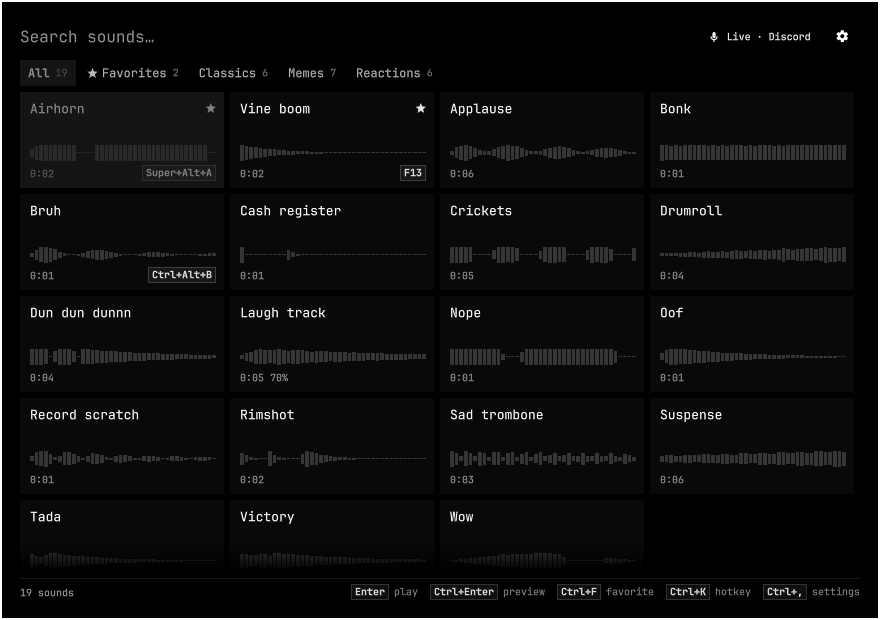
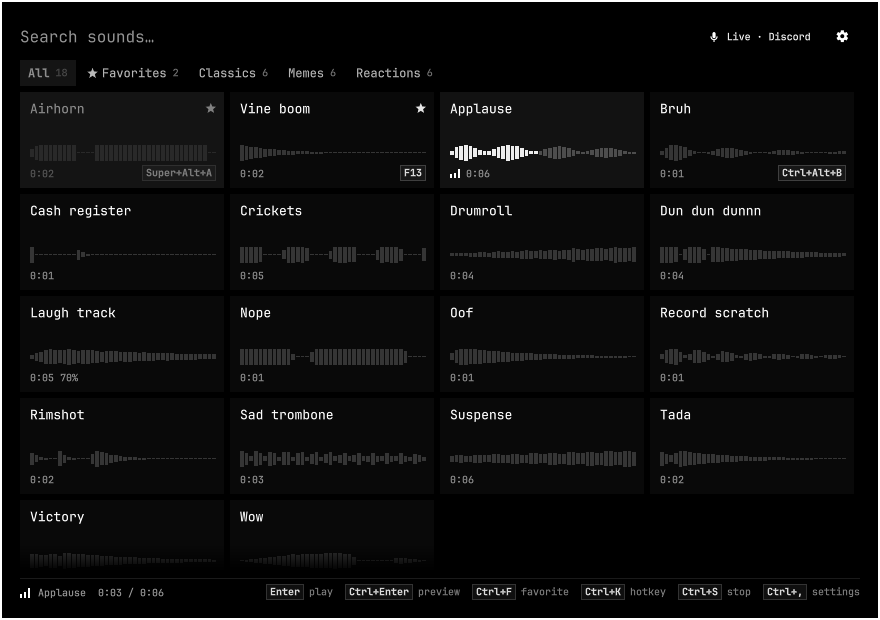
docs: add requirements and marketplace preview

diff --git a/README.md b/README.md
@@ -24,10 +24,19 @@ audio processing running in the background.
 - Plays wav, flac, ogg, opus, mp3 and aiff directly; m4a, aac, webm, wma and
   friends are converted once with ffmpeg and cached.
 
-## Install
+## Requirements
 
-Omahorn needs Omarchy 4 (the Quickshell-based shell). Everything else it uses
-ships with Omarchy: PipeWire with `pactl`, `pw-play`, `jq` and `ffmpeg`.
+Everything here ships with Omarchy 4; there is nothing to install.
+
+- **Omarchy 4**, whose shell (`omarchy-shell`, Quickshell 0.3) hosts the plugin
+- **PipeWire** with WirePlumber and pipewire-pulse: `pw-play`, `pw-link`,
+  `pw-dump` and `pactl`
+- **Hyprland**, for the global hotkeys
+- `bash`, `jq`, `find` and the usual coreutils
+- `ffmpeg` and `ffprobe`, for sound lengths, waveforms and playing m4a, aac,
+  webm or wma. Without them sounds still play, just without those.
+
+## Install
 
 ```bash
 omarchy plugin add https://github.com/allankayan/omahorn.git --enable
